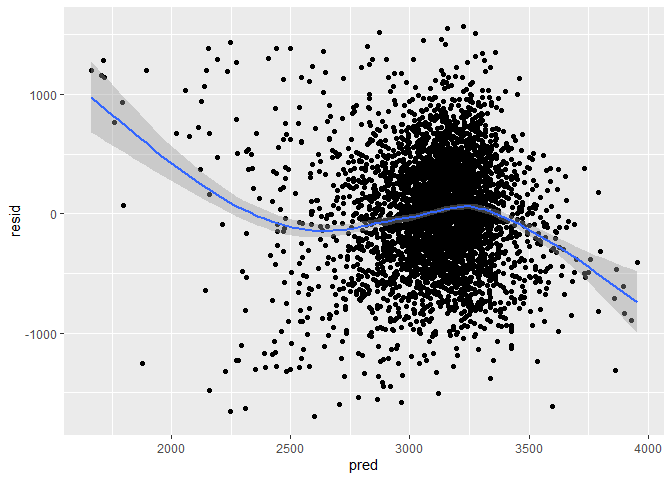
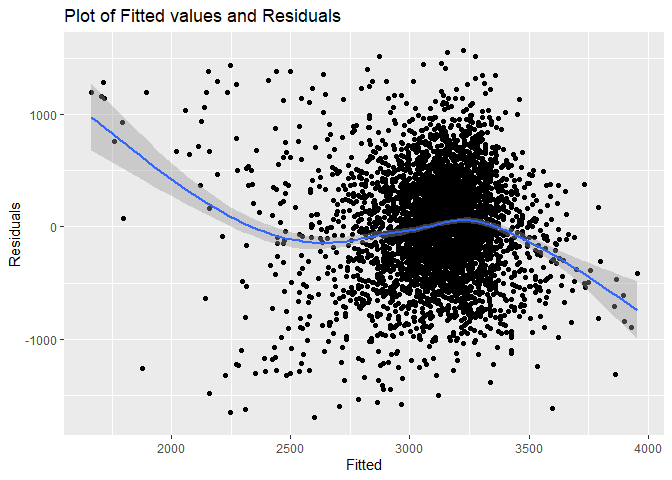
~ editing descriptions

diff --git a/p8105_hw6_jam2530.md b/p8105_hw6_jam2530.md
@@ -89,8 +89,8 @@ r_squared_plot <- r_squared |>
   geom_density() +
   labs( 
     x = "R Squared",
-    y = "?",
-    title = "?")
+    y = "Density",
+    title = "Plot of R Squared and Density")
 
 print(r_squared_plot)
 ```
@@ -109,7 +109,7 @@ r_squared |>
 
 | lower_limit | upper_limit |
 |------------:|------------:|
-|       0.887 |       0.938 |
+|       0.888 |       0.938 |
 
 The 95% confidence interval for R^2 is (0.887, 0.939)
 
@@ -139,8 +139,8 @@ log_plot<- log_estimate |>
   geom_density() +
   labs( 
     x = "Log Function",
-    y = "?",
-    title = "?")
+    y = "Density",
+    title = "Plot of Log Function and Density")
 
 print(log_plot)
 ```
@@ -159,7 +159,7 @@ log_estimate |>
 
 | lower_limit | upper_limit |
 |------------:|------------:|
-|       2.049 |       2.131 |
+|       2.048 |       2.131 |
 
 # Problem 3
 
@@ -221,7 +221,12 @@ residual_plot <- birthweight_df |>
   add_residuals(regression_model) |>
   ggplot(aes(x = pred, y = resid)) +
   geom_point() +
-  geom_smooth()
+  geom_smooth() +
+  labs(
+    x = "Fitted",
+    y = "Residuals",
+    title = "Plot of Fitted values and Residuals"
+  )
 
 print(residual_plot)
 ```
